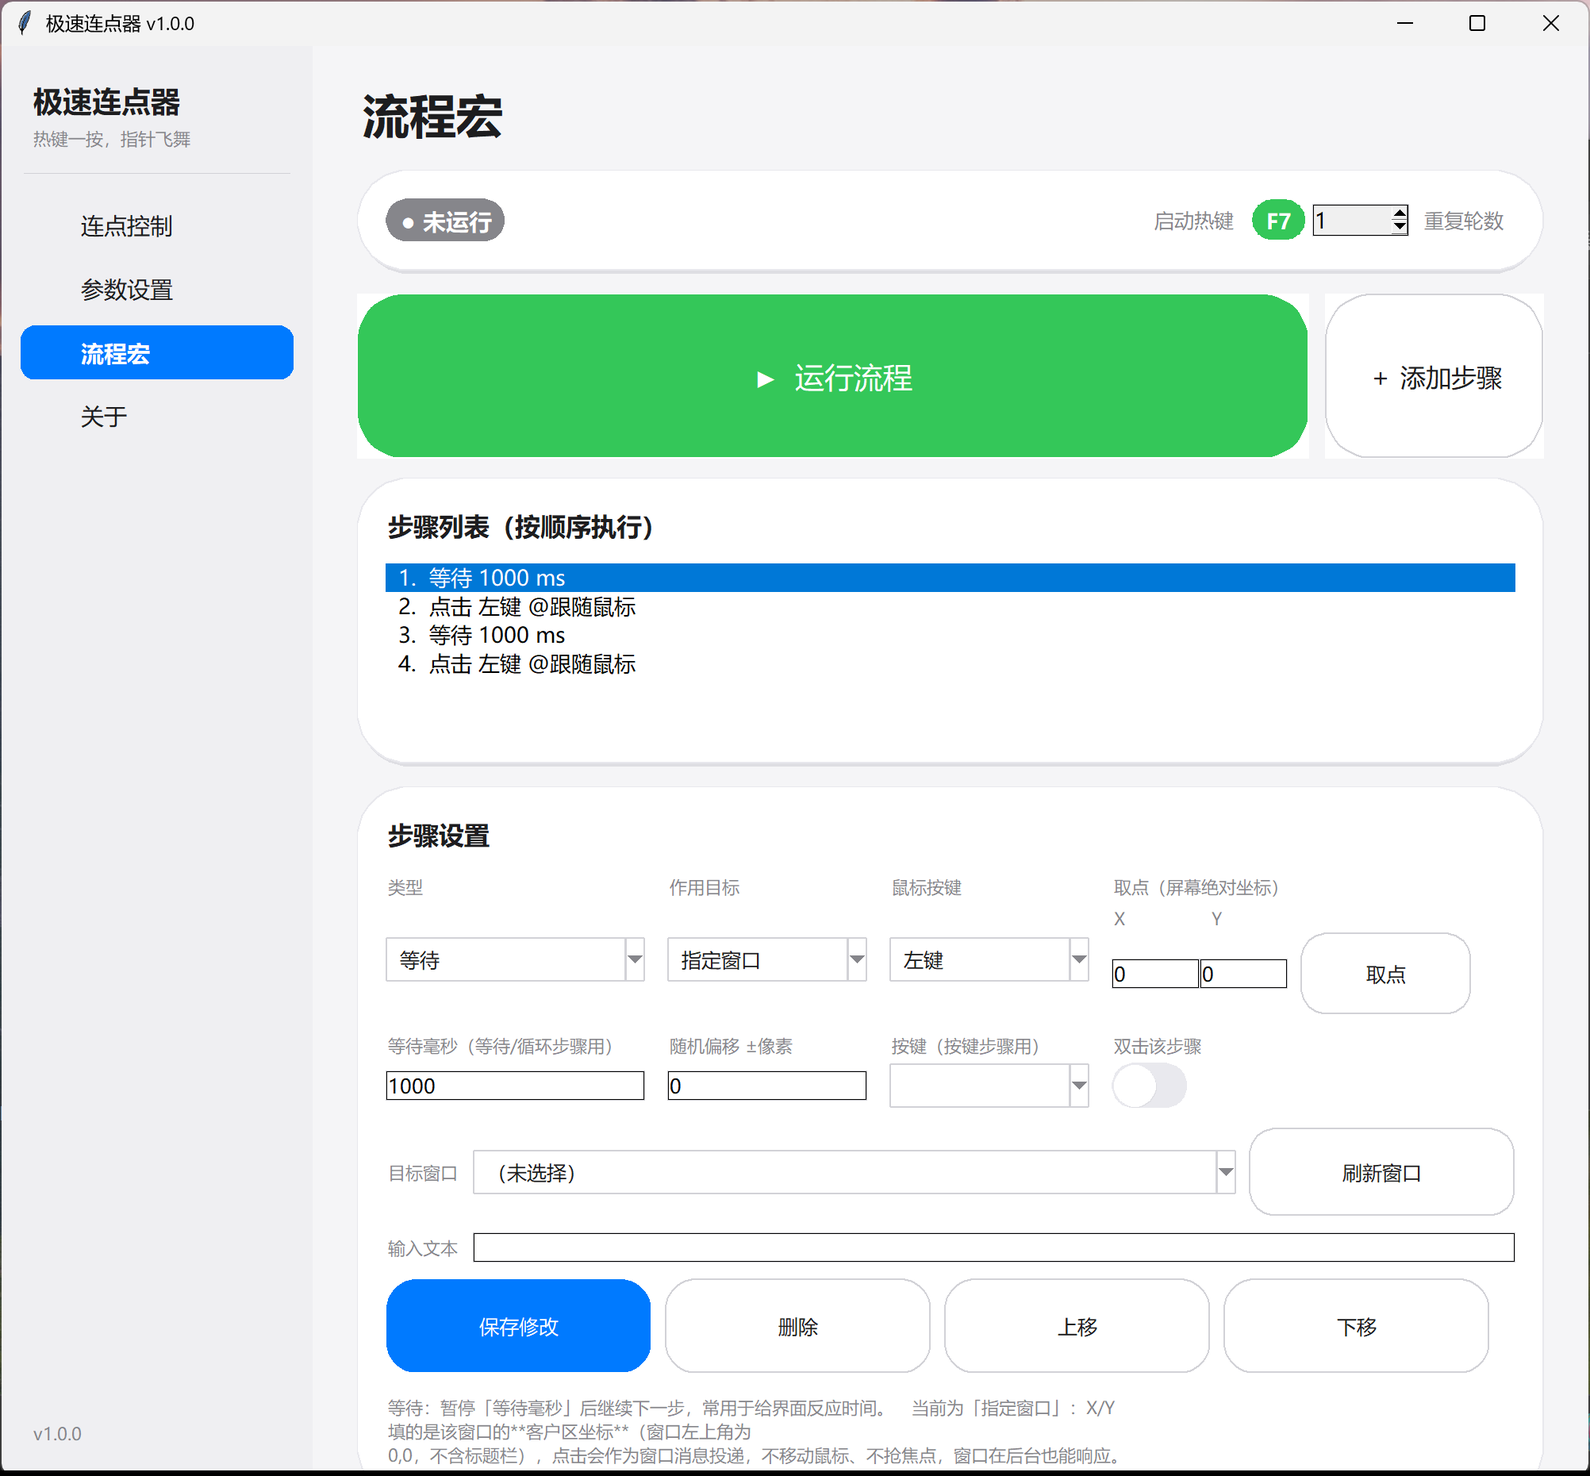
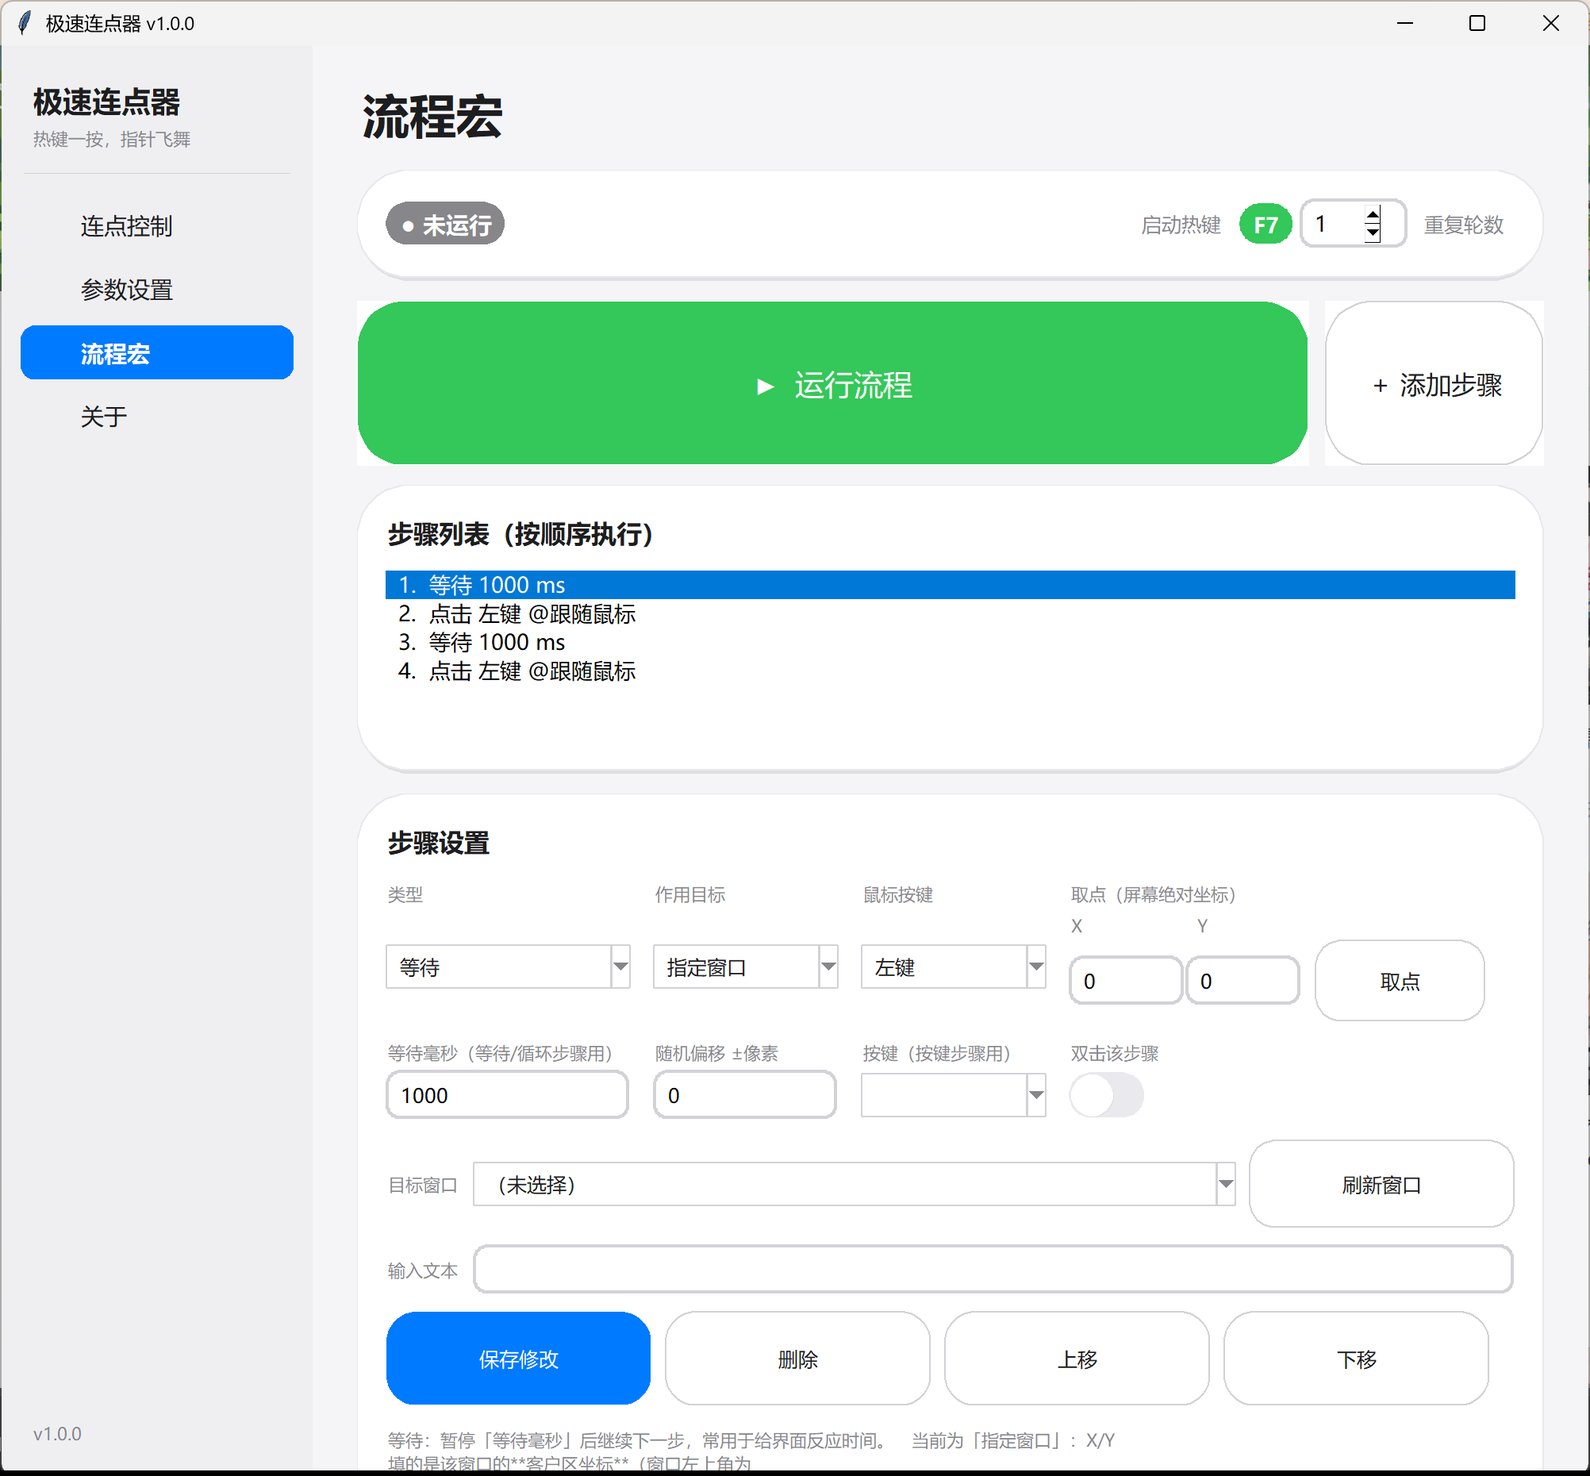
v1.0.1：修分段选项点击崩溃 + 输入框改为 Apple 风格圆角
修复
- 分段控件（点击间隔单位 / 按键 / 点击位置）点击必崩：
  SegmentedControl 一律按 (i, label) 调回调，而页面回调只接受 (i)，
  抛 TypeError: takes 2 positional arguments but 3 were given。
  改为按签名自动适配，1 参 / 2 参回调都支持。
- 输入框不再用 tk.Entry 的直角灰边，改为自绘圆角描边（Field 组件），
  与整体卡片风格统一；聚焦时描边变主题色。
- Spinbox 上下箭头压平，右侧预留箭头宽度。

技术要点（已沉淀进 skill）
- 自定义控件**绝不能把属性命名为 _w**：tkinter.Misc 用它存 Tcl 路径名，
  覆盖后控件从 Tcl 树消失，界面上凭空不见且无任何报错。
- 描边层与内容层统一用 place，混用 pack 会破坏子控件。
- 布局稳定后 after_idle 补一次重画，避免首帧只画出单侧边框。

版本 1.0.0 -> 1.0.1

diff --git a/ui_kit.py b/ui_kit.py
@@ -296,6 +296,183 @@ def rrect(canvas, x1, y1, x2, y2, r, **kw):
     return canvas.create_polygon(rrect_points(x1, y1, x2, y2, r), **kw)
 
 
+class Field(tk.Frame):
+    """Apple 风格输入框（Entry / Spinbox 统一外观）。
+
+    为什么不直接用 tk.Entry：它只有 relief="solid" 的直角灰边，
+    高 DPI 下跟整体圆角卡片完全不搭；ttk.Entry 在 clam 主题下
+    又是另一种灰色方块，且行高受 element 限制压不住。
+
+    实现：Frame 做容器（Entry 需要真正的 widget 父级），
+    内部叠一个 Canvas 画圆角描边 + 透明边框的 tk.Entry。
+    **圆角必须靠 Canvas**——Frame 的 highlightthickness 只能画直角矩形，
+    跟 AppleButton / RoundedFrame 对不上。
+    Spinbox 通过 spin=True 复用同一外观。
+    """
+
+    def __init__(self, master, textvariable=None, width_chars=8,
+                 font=None, spin=False, from_=None, to=None, wrap=False,
+                 justify="left", bg=None, radius=None, on_enter=None):
+        self.bg = bg or THEME["card"]
+        self.font = font or F(11)
+        self.radius = px(8 if radius is None else radius)
+        self.height_ = px(32)
+        self._focused = False
+        # 坑：**绝对不要把自定义属性命名成 _w**。tkinter.Misc内部用 self._w
+        # 存控件的 Tcl 路径名（形如 .!frame.!canvas），一被覆盖成数字，
+        # 控件就从 Tcl 树里"消失"了：winfo_exists() 变0、界面元素凭空不见，
+        # 而且不报任何错。宽度缓存请用别的名字。
+        # 另：pack_propagate(False) 会禁掉「按内容算宽」，不显式给 width
+        # 容器会塌成 1px（Entry 一起被压没）。
+        self._auto_w = self._measure(width_chars)
+        self._box_w = self._auto_w
+        tk.Frame.__init__(self, master, bg=self.bg, highlightthickness=0, bd=0,
+                           width=self._auto_w, height=self.height_)
+        self.pack_propagate(False)
+
+        # 坑：叠放顺序 + 几何管理必须统一用 place。
+        #   · Canvas 有背景色，必须先创建并place在最底层，只画描边
+        #   · Entry 用 place（不是 pack）叠在 Canvas 之上
+        #   · 坑：同一父级里混用 pack 和 place，在 pack_propagate(False)
+        #     的 Frame 上会导致子控件在 <Configure> 期间被 Tcl 销毁
+        #     （表现为 winfo_exists() 变0、界面元素凭空消失，且无任何报错）
+        self._cv = tk.Canvas(self, bg=self.bg, highlightthickness=0, bd=0)
+        self._cv.place(x=0, y=0, relwidth=1, relheight=1)
+        self._cv.bind("<Button-1>", lambda e: self.widget.focus_set())
+
+        inner = dict(textvariable=textvariable, font=self.font,
+                     bg=self.bg, relief="flat", bd=0,
+                     highlightthickness=0, insertbackground=THEME["text"],
+                     insertwidth=max(1, px(2)), justify=justify,
+                     selectbackground=THEME["blue"],
+                     selectforeground="#FFFFFF")
+        if wrap:
+            inner["wrap"] = "char"
+        if spin:
+            # 坑：tk.Spinbox **不支持** -buttonrelief（那是 ttk.Spinbox 的选项），
+            # 传了直接抛 TclError: unknown option。
+            # 箭头立体感只能靠 borderwidth=0 + buttonbackground 压平。
+            self._spin_w = px(18)
+            self.widget = tk.Spinbox(
+                self, from_=from_, to=to, width=width_chars,
+                buttonbackground=self.bg, borderwidth=0,
+                activebackground=self.bg, **inner)
+        else:
+            self._spin_w = px(8)
+            self.widget = tk.Entry(self, width=width_chars, **inner)
+        self._place_entry()
+        self.redraw()
+
+        if on_enter:
+            self.widget.bind("<Return>", lambda e: on_enter())
+        self.bind("<Configure>", self._on_cfg)
+        self.widget.bind("<FocusIn>", lambda e: self._set_focus(True))
+        self.widget.bind("<FocusOut>", lambda e: self._set_focus(False))
+
+    def _place_entry(self):
+        try:
+            self.widget.place(x=px(9), y=px(4),
+                              width=max(1, self._box_w - px(9) - self._spin_w),
+                              height=max(1, self.height_ - px(8)))
+        except tk.TclError:
+            pass
+
+    def _measure(self, width_chars):
+        """按字体度量估算容器宽度。
+
+        Entry/Spinbox 的 width 是「字符数」，但 pack_propagate(False)
+        之后 Frame 不再跟随内容，必须自己算出像素宽。
+        """
+        pad = px(9) + px(8) + px(4)
+        try:
+            cw = tkfont.Font(font=self.font).measure("0") or px(8)
+        except Exception:  # noqa: BLE001
+            cw = px(8)
+        return cw * max(1, width_chars) + pad
+
+    def redraw(self):
+        """重画圆角描边。focused 时用主题色。
+
+        坑：Canvas 用的是 place(relwidth=1)，它拿到真实宽度比Frame 晚一拍，
+        首次 <Configure> 时常只有 1px，此时直接 return 会留下「只有左边框」的
+        残影。所以宽度不足时排一个 after_idle 重试。
+        """
+        try:
+            cv = self._cv
+            w = cv.winfo_width()
+            h = cv.winfo_height()
+            if w <= 1 or h <= 1:
+                # 退回到 Frame 自身的请求宽度，至少把框画出来
+                w = max(w, self._box_w)
+                h = max(h, self.height_)
+                if w <= 1 or h <= 1:
+                    return
+            cv.delete("all")
+            col = THEME["blue"] if self._focused else THEME["border"]
+            rrect(cv, px(1), px(1), w - px(2), h - px(2), self.radius,
+                  fill="", outline=col, width=px(2))
+        except tk.TclError:
+            pass
+
+    def _set_focus(self, focused):
+        self._focused = focused
+        self.redraw()
+
+    def _on_cfg(self, _evt):
+        # 坑：控件销毁时仍会收到 <Configure>，此时 winfo_width() 本身就会抛
+        # TclError: bad window path name。整段兜住，否则退出时刷一屏红字。
+        # 每次 Configure 都重画（不比较宽度）：容器被拉伸时右/下边框要跟着走，
+        # 只在宽度变化时重画会留下一侧缺边的残影。
+        try:
+            w = self.winfo_width()
+            if w > 1:
+                changed = w != self._box_w
+                self._box_w = w
+                if changed:
+                    self._place_entry()
+                self.redraw()
+                # place(relwidth=1) 的 Canvas 尺寸比容器晚一拍，
+                # 布局稳定后再补一次，边框才完整。
+                if changed:
+                    self.after_idle(self._redraw_later)
+        except tk.TclError:
+            pass
+
+    def _redraw_later(self):
+        try:
+            if self.winfo_exists():
+                self._place_entry()
+                self.redraw()
+        except tk.TclError:
+            pass
+
+    # -- 代理 tk.Entry 接口，调用方无需关心外层容器
+    def get(self):
+        return self.widget.get()
+
+    def set(self, v):
+        self.widget.delete(0, "end")
+        self.widget.insert(0, v)
+
+    def delete(self, *args):
+        return self.widget.delete(*args)
+
+    def insert(self, *args):
+        return self.widget.insert(*args)
+
+    def selection_range(self, *args):
+        return self.widget.selection_range(*args)
+
+    def select_range(self, a, b):
+        return self.widget.selection_range(a, b)
+
+    def focus_set(self):
+        return self.widget.focus_set()
+
+    def icursor(self, pos):
+        return self.widget.icursor(pos)
+
+
 SHADOW_PAD = 5
 
 # UI 缩放因子：运行时按系统 DPI 设置（96 DPI 时为 1.0）。
@@ -552,7 +729,13 @@ class AppleButton(tk.Canvas):
 class SegmentedControl(tk.Canvas):
     """iOS 风格分段控件（带滑动 thumb）
 
-    坑：默认参数不能写 px(340)——import 时求值会冻结在 UI_SCALE=1.0。
+    坑 1：默认参数不能写 px(340)——import 时求值会冻结在 UI_SCALE=1.0。
+    坑 2：command 的回调**参数个数不固定**——历史代码里两种写法都有：
+             def on_unit(i): ...            # 只关心下标
+             def on_segment(i, label): ...  # 还要用到文案
+          统一按 (i, label) 调用会让只接受 1 个参数的回调抛
+          TypeError，点击分段控件直接报「程序错误」。
+          → 用_fire_command() 按签名自动适配，两种都能用。
     """
 
     def __init__(self, master, options, command=None, width=None, height=None,
@@ -586,14 +769,31 @@ class SegmentedControl(tk.Canvas):
             self.width_ = w
             self.draw()
 
+    def _fire(self, i):
+        """按回调签名适配调用：支持 (i) 与 (i, label) 两种写法。"""
+        if not self.command:
+            return
+        label = self.options[i]
+        try:
+            import inspect
+            sig = inspect.signature(self.command)
+            n = len([p for p in sig.parameters.values()
+                     if p.kind in (p.POSITIONAL_ONLY, p.POSITIONAL_OR_KEYWORD)])
+        except (TypeError, ValueError):
+            n = 2                      # 取不到签名就按 2 参试
+        if n >= 2:
+            self.command(i, label)
+        else:
+            self.command(i)
+
     def select(self, i, fire=False):
         i = max(0, min(i, len(self.options) - 1))
         if i == self.index and self._shown == float(i):
             return
         self.index = i
         self._animate_to(float(i))
-        if fire and self.command:
-            self.command(i, self.options[i])
+        if fire:
+            self._fire(i)
 
     def _click(self, event):
         n = len(self.options)
@@ -601,8 +801,7 @@ class SegmentedControl(tk.Canvas):
         i = int(event.x // seg)
         if 0 <= i < n and i != self.index:
             self.select(i)
-            if self.command:
-                self.command(i, self.options[i])
+            self._fire(i)
 
     def _animate_to(self, target):
         if self._anim:

diff --git a/auto_clicker.py b/auto_clicker.py
@@ -21,7 +21,7 @@ import time
 import traceback
 from datetime import datetime
 
-from ui_kit import (AppBase, AppleButton, F, Pill, RoundedFrame, ScrollFrame,
+from ui_kit import (AppBase, AppleButton, F, Field, Pill, RoundedFrame, ScrollFrame,
                     SegmentedControl, THEME, ToggleSwitch, open_uri, px,
                     setup_dpi)
 
@@ -32,7 +32,7 @@ import tkinter as tk
 from tkinter import messagebox, ttk
 
 APP_NAME = "极速连点器"
-APP_VERSION = "1.0.0"
+APP_VERSION = "1.0.1"
 
 # ---------------------------------------------------------------- Win32 输入
 
@@ -313,11 +313,8 @@ class ClickerApp(AppBase):
         r1.pack(fill="x", pady=(px(0), px(10)))
         tk.Label(r1, text="点击间隔", bg=THEME["card"], fg=THEME["text"],
                  font=F(11)).pack(side="left")
-        e1 = tk.Entry(r1, textvariable=self.interval_val, width=8, font=F(11),
-                      relief="solid", bd=1, highlightthickness=1,
-                      highlightcolor=THEME["blue"],
-                      highlightbackground=THEME["border"])
-        e1.pack(side="left", padx=px(10), ipady=px(3))
+        e1 = Field(r1, textvariable=self.interval_val, width_chars=8, font=F(11))
+        e1.pack(side="left", padx=px(10))
         self.unit_seg = SegmentedControl(
             r1, ["毫秒", "秒", "分钟"], command=self._on_unit, width=px(220),
             height=px(34), bg=THEME["card"])
@@ -328,10 +325,8 @@ class ClickerApp(AppBase):
         r2.pack(fill="x", pady=(px(0), px(10)))
         tk.Label(r2, text="点击次数", bg=THEME["card"], fg=THEME["text"],
                  font=F(11)).pack(side="left")
-        tk.Entry(r2, textvariable=self.count_val, width=8, font=F(11), relief="solid",
-                 bd=1, highlightthickness=1, highlightcolor=THEME["blue"],
-                 highlightbackground=THEME["border"]).pack(side="left", padx=px(10),
-                                                           ipady=px(3))
+        Field(r2, textvariable=self.count_val, width_chars=8, font=F(11)).pack(
+            side="left", padx=px(10))
         tk.Label(r2, text="0 = 一直点，直到手动停止", bg=THEME["card"],
                  fg=THEME["text3"], font=F(9)).pack(side="left")
 
@@ -354,10 +349,8 @@ class ClickerApp(AppBase):
         r4.pack(fill="x")
         tk.Label(r4, text="随机偏移(px)", bg=THEME["card"], fg=THEME["text"],
                  font=F(11)).pack(side="left")
-        tk.Entry(r4, textvariable=self.jitter_val, width=8, font=F(11), relief="solid",
-                 bd=1, highlightthickness=1, highlightcolor=THEME["blue"],
-                 highlightbackground=THEME["border"]).pack(side="left", padx=px(10),
-                                                           ipady=px(3))
+        Field(r4, textvariable=self.jitter_val, width_chars=8, font=F(11)).pack(
+            side="left", padx=px(10))
         tk.Label(r4, text="每次点击在目标点附近随机抖动，可避免固定坐标被识别",
                  bg=THEME["card"], fg=THEME["text3"], font=F(9)).pack(side="left")
 
@@ -375,17 +368,12 @@ class ClickerApp(AppBase):
         r6.pack(fill="x")
         tk.Label(r6, text="X", bg=THEME["card"], fg=THEME["text2"],
                  font=F(10)).pack(side="left")
-        tk.Entry(r6, textvariable=self.pos_x, width=9, font=F(11, mono=True),
-                 relief="solid", bd=1, highlightthickness=1,
-                 highlightcolor=THEME["blue"],
-                 highlightbackground=THEME["border"]).pack(side="left",
-                                                           padx=px(6), ipady=px(3))
+        Field(r6, textvariable=self.pos_x, width_chars=9, font=F(11, mono=True)).pack(
+            side="left", padx=px(6))
         tk.Label(r6, text="Y", bg=THEME["card"], fg=THEME["text2"],
                  font=F(10)).pack(side="left", padx=(px(12), px(6)))
-        tk.Entry(r6, textvariable=self.pos_y, width=9, font=F(11, mono=True),
-                 relief="solid", bd=1, highlightthickness=1,
-                 highlightcolor=THEME["blue"],
-                 highlightbackground=THEME["border"]).pack(side="left", ipady=px(3))
+        Field(r6, textvariable=self.pos_y, width_chars=9, font=F(11, mono=True)).pack(
+            side="left")
         AppleButton(r6, "取当前鼠标位置", command=self.pick_pos, style="secondary",
                     width=px(140), height=px(32), radius=px(9),
                     font=F(10)).pack(side="left", padx=px(14))
@@ -413,9 +401,8 @@ class ClickerApp(AppBase):
         r8.pack(fill="x")
         tk.Label(r8, text="开始倒计时(秒)", bg=THEME["card"], fg=THEME["text"],
                  font=F(11)).pack(side="left")
-        tk.Spinbox(r8, from_=0, to=10, width=6, textvariable=self.countdown_val,
-                   font=F(11), relief="solid", bd=1, highlightthickness=1,
-                   highlightbackground=THEME["border"]).pack(side="left", padx=px(10))
+        Field(r8, textvariable=self.countdown_val, width_chars=6, font=F(11),
+              spin=True, from_=0, to=10).pack(side="left", padx=px(10))
         tk.Label(r8, text="倒计时结束自动开始，方便你把手放到目标位置",
                  bg=THEME["card"], fg=THEME["text3"], font=F(9)).pack(side="left")
 
@@ -432,12 +419,11 @@ class ClickerApp(AppBase):
         self.flow_pill.pack(side="left")
         tk.Label(row, text="重复轮数", bg=THEME["card"], fg=THEME["text3"],
                  font=F(10)).pack(side="right", padx=(px(8), px(6)))
-        self.flow_repeat = tk.Spinbox(row, from_=1, to=9999, width=6,
-                                      textvariable=self.flow_repeat_var,
-                                      font=F(11), relief="solid", bd=1,
-                                      highlightthickness=1,
-                                      highlightbackground=THEME["border"],
-                                      state="readonly").pack(side="right")
+        self.flow_repeat = Field(row, textvariable=self.flow_repeat_var,
+                                 width_chars=6, font=F(11), spin=True,
+                                 from_=1, to=9999)
+        self.flow_repeat.pack(side="right")
+        self.flow_repeat.widget.configure(state="readonly", readonlybackground=THEME["card"])
         self.flow_hk_pill = Pill(row, "F7", THEME["green"], bg=THEME["card"], size=11)
         self.flow_hk_pill.pack(side="right", padx=(px(10), px(4)))
         tk.Label(row, text="启动热键", bg=THEME["card"], fg=THEME["text3"],
@@ -476,9 +462,7 @@ class ClickerApp(AppBase):
                                       padx=(0, px(14)))
 
         def _ent(parent, r, c, w=8):
-            e = tk.Entry(parent, width=w, font=F(10), relief="solid", bd=1,
-                         highlightthickness=1,
-                         highlightbackground=THEME["border"])
+            e = Field(parent, width_chars=w, font=F(10))
             e.grid(row=r * 2 + 1, column=c, sticky="ew", padx=(0, px(14)),
                    pady=(px(2), px(10)))
             return e
@@ -509,15 +493,11 @@ class ClickerApp(AppBase):
                   pady=(px(2), px(10)))
         tk.Label(pick, text="X", bg=THEME["card"], fg=THEME["text3"],
                  font=F(9)).grid(row=0, column=0, sticky="w", padx=(0, px(14)))
-        self.ed_x = tk.Entry(pick, width=7, font=F(10), relief="solid", bd=1,
-                             highlightthickness=1,
-                             highlightbackground=THEME["border"])
+        self.ed_x = Field(pick, width_chars=7, font=F(10))
         self.ed_x.grid(row=1, column=0, sticky="w")
         tk.Label(pick, text="Y", bg=THEME["card"], fg=THEME["text3"],
                  font=F(9)).grid(row=0, column=1, sticky="w", padx=(px(6), px(8)))
-        self.ed_y = tk.Entry(pick, width=7, font=F(10), relief="solid", bd=1,
-                             highlightthickness=1,
-                             highlightbackground=THEME["border"])
+        self.ed_y = Field(pick, width_chars=7, font=F(10))
         self.ed_y.grid(row=1, column=1, sticky="w")
         AppleButton(pick, "取点", command=self.flow_pick_point, style="secondary",
                     width=px(54), height=px(26), radius=px(8), font=F(10),
@@ -556,9 +536,7 @@ class ClickerApp(AppBase):
         g2.pack(fill="x", pady=(px(0), px(10)))
         tk.Label(g2, text="输入文本", bg=THEME["card"], fg=THEME["text3"],
                  font=F(9)).pack(side="left")
-        self.ed_text = tk.Entry(g2, font=F(10), relief="solid", bd=1,
-                                highlightthickness=1,
-                                highlightbackground=THEME["border"])
+        self.ed_text = Field(g2, font=F(10))
         self.ed_text.pack(side="left", fill="x", expand=True,
                           padx=(px(8), 0))
 
